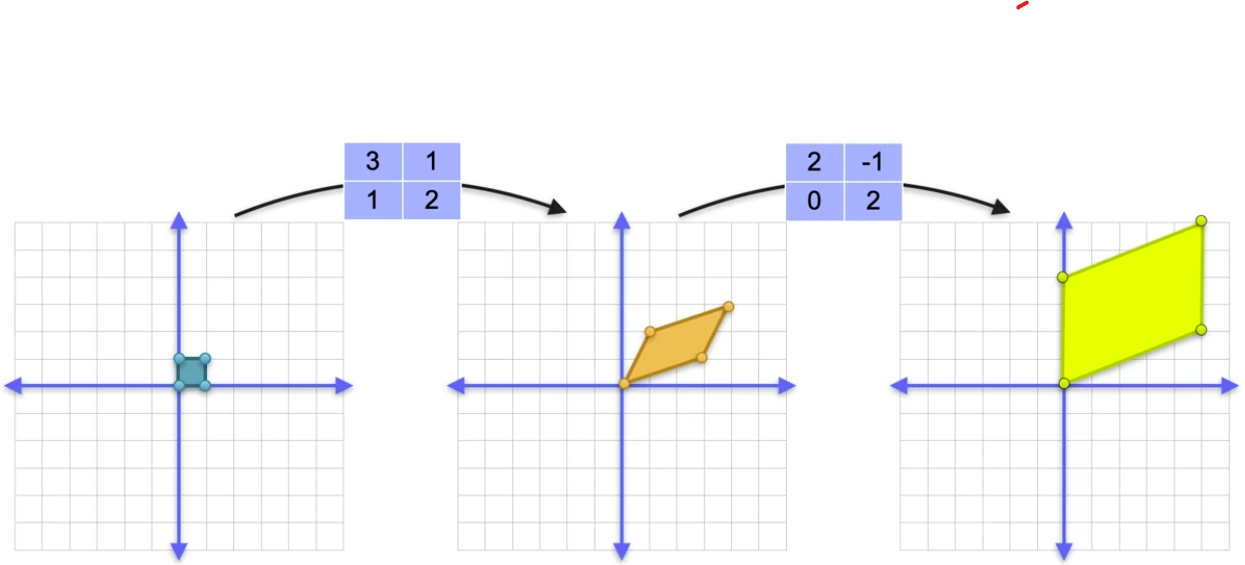
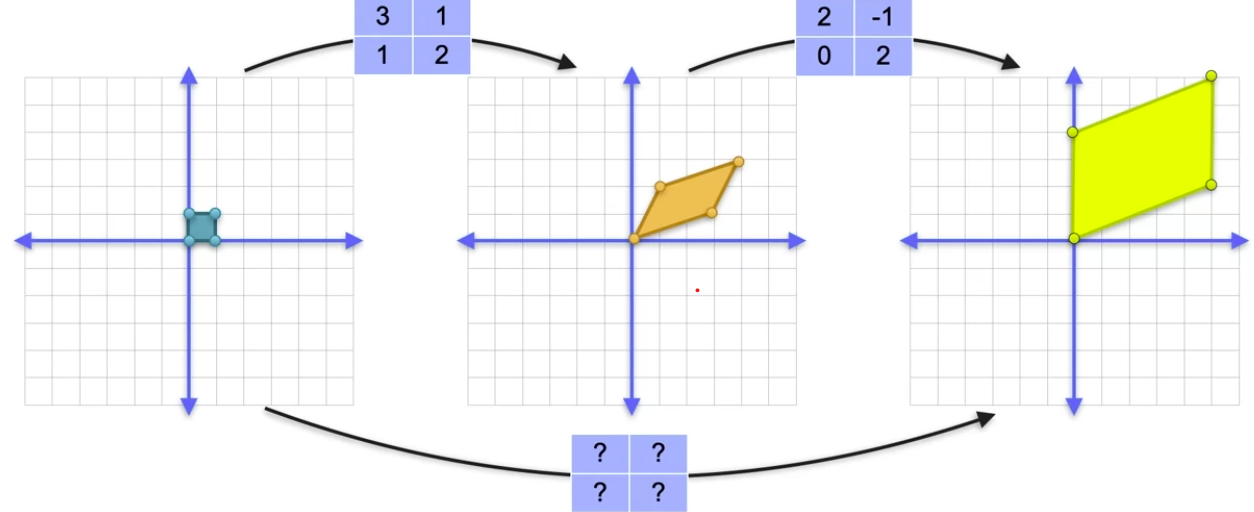
Add detailed explanation and examples for combining linear transformations in linear algebra documentation

diff --git a/fundamentals/math/linear_algebra/linear_algebra.md b/fundamentals/math/linear_algebra/linear_algebra.md
@@ -177,7 +177,33 @@ $\vec{a} \cdot \vec{b} = a_1b_1 + a_2b_2$
 
 ### Combining linear transformations
 ![combining linear transformations](images/combining_transformations.png)
+
+#### Look at basis vectors:
+(1,0) → (5,2) <br>
+(0,1) → (0,4)
 <br>
+
+```math
+\begin{bmatrix}
+? & ? \\
+? & ?
+\end{bmatrix}
+
+=
+
+\begin{bmatrix}
+5 & 0 \\
+2 & 4
+\end{bmatrix}
+```
+
+<br>
+
+#### Using matrix multiplication:
+
+<br>
+
+<img src="images/matrix_multiplication.png" alt="matrix mulitiplication"  width=500>
 
 
 <br>
